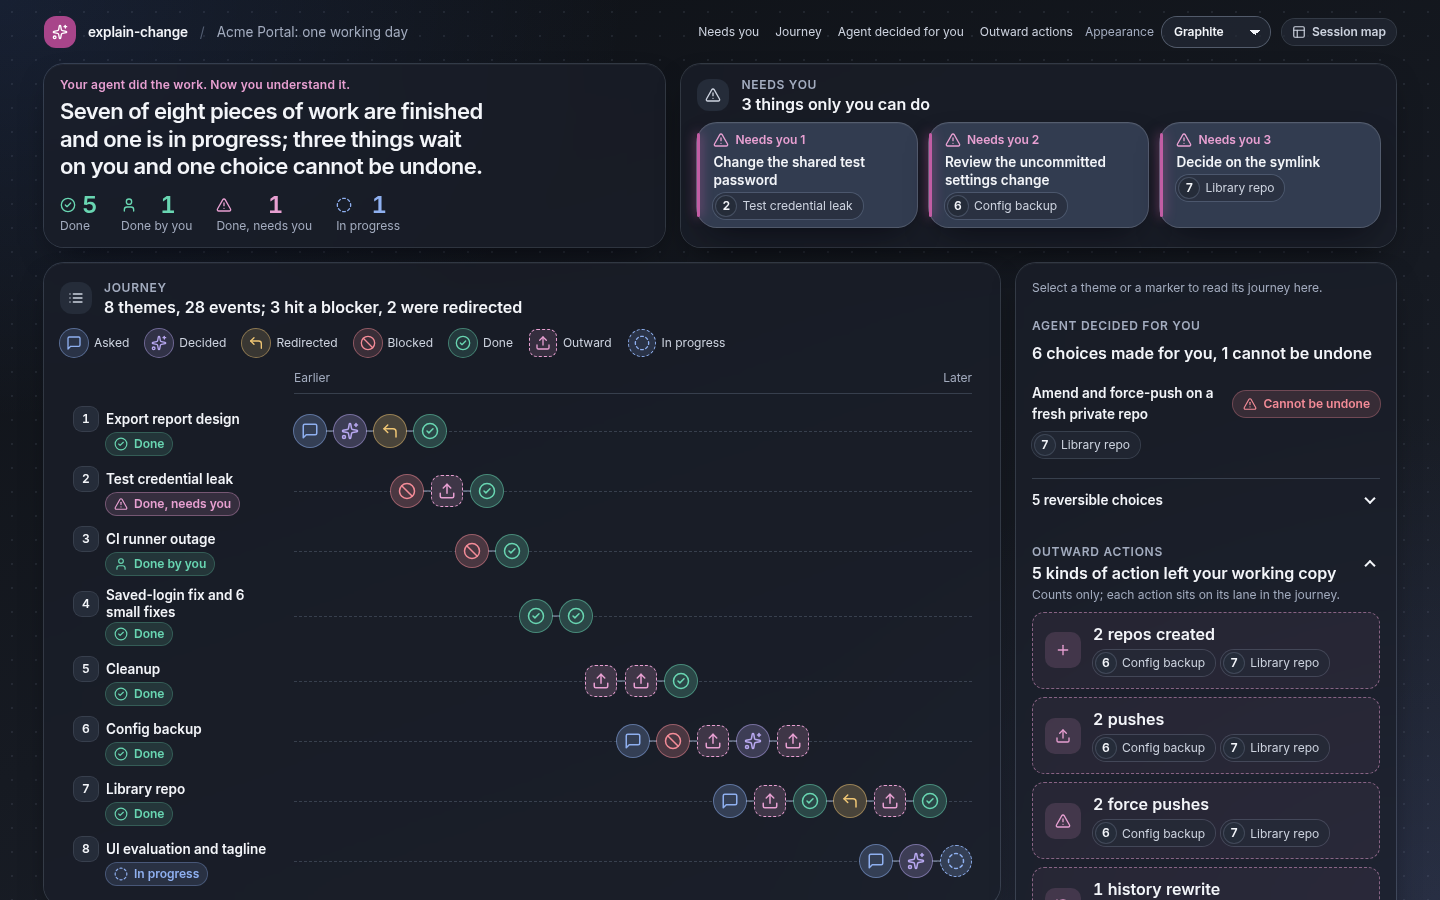
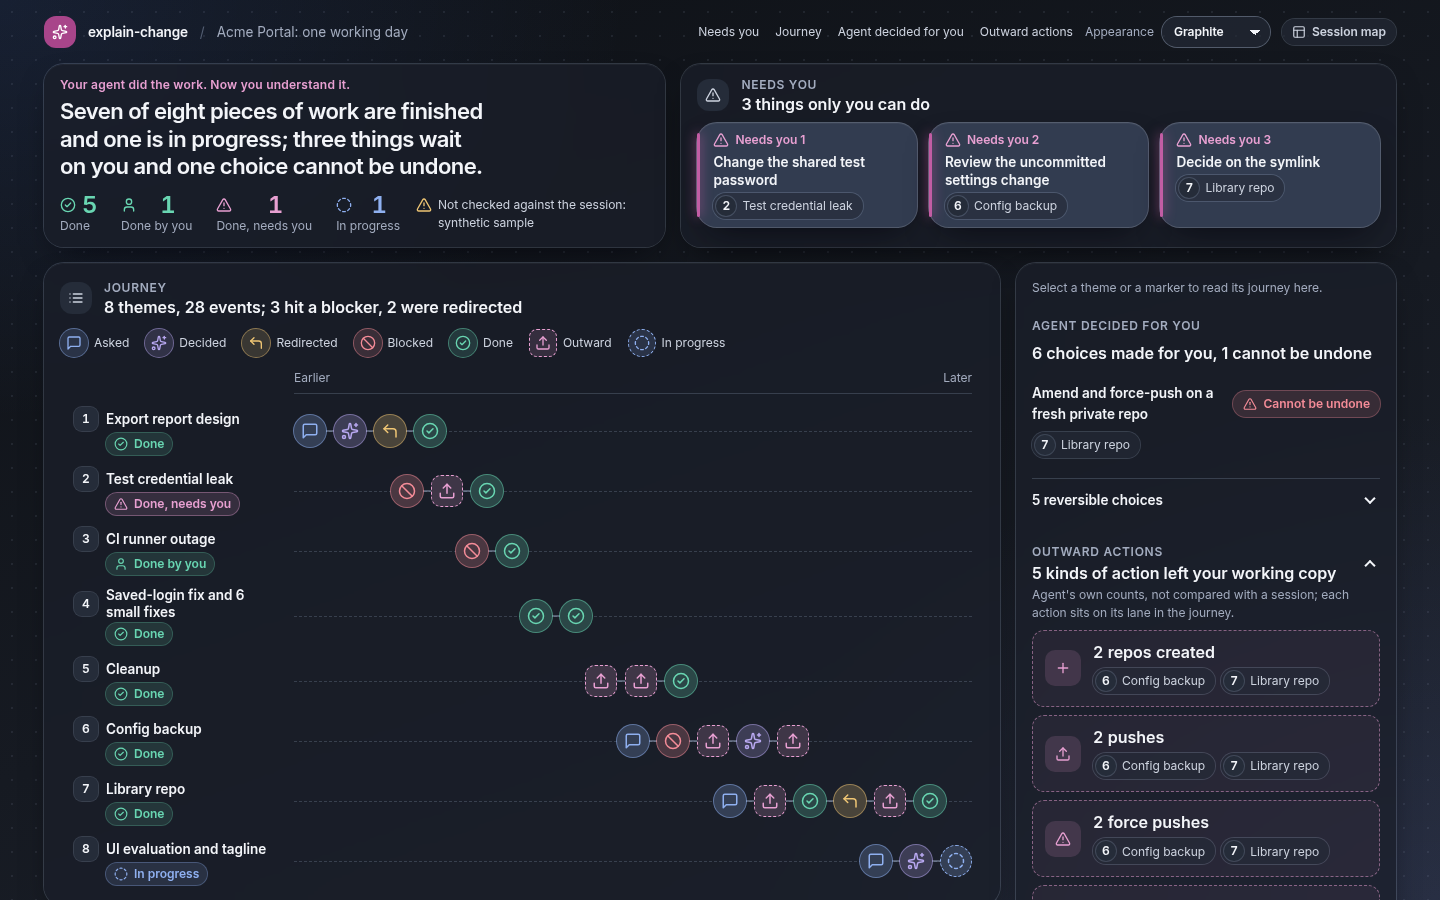
fix: the no-session note adds no height to the session page; the change-page badge stays short
Session page: the note sits beside the status key, so all 8 lanes stay on a
1440 x 900 screen. Change page: the badge keeps its short form and the reason
moves to one line in the Evidence tab, so a 200-character reason never wraps
the header. Both samples give the reason "synthetic sample". Every README and
DESIGN image is re-captured.

Changed region(s): [[0.7188, 0.6533, 0.9375, 1.0], [0.2812, 0.2178, 0.4375, 0.2489]]

diff --git a/skills/explain-change/tests/red_check.py b/skills/explain-change/tests/red_check.py
@@ -1208,17 +1208,17 @@ _NO_TRANSCRIPT = [
         ('no transcript: an unvalidated session page learns from its quotes', 'scripts/render.py',
          "        else:\n            transcript.learn_quotes(doc)\n        print('warning: not validated (--no-validate); nothing was checked against the transcript'",
          "        print('warning: not validated (--no-validate); nothing was checked against the transcript'", 'UnvalidatedRender.test_session_page'),
-        ('no transcript: the badge gives the reason', P2, "esc(t['unchecked'] + (': ' + self.reason() if self.reason() else ''))", "esc(t['unchecked'])",
+        ('no transcript: the Evidence tab gives the reason', P2, "esc(t['unchecked_why'] + self.reason())", "esc(t['unchecked_why'])",
          'ChangePageNote.test_en_note_has_the_reason'),
-        ('no transcript: the badge escapes the reason', P2, "esc(t['unchecked'] + (': '", "(t['unchecked'] + (': '", 'HostileReason.test_html_in_the_reason_is_escaped_on_both_pages'),
+        ('no transcript: the reason is escaped', P2, "esc(t['unchecked_why'] + self.reason())", "(t['unchecked_why'] + self.reason())", 'HostileReason.test_html_in_the_reason_is_escaped_on_both_pages'),
         ('no transcript: the badge cuts a long reason', P2, "        return r[:MAX_REASON - 1] + '…' if len(r) > MAX_REASON else r", '        return r',
          'HostileReason.test_a_page_rendered_without_validation_still_caps_the_reason'),
         ('no transcript: the badge hides a credential in the reason', P2, "r = redact(' '.join(r.split())) if isinstance(r, str) else ''", "r = ' '.join(r.split()) if isinstance(r, str) else ''",
          'HostileReason.test_a_credential_in_the_reason_of_an_unvalidated_page_is_hidden'),
         ("no transcript: a run the session would prove is the agent's own account", P2, '        return not self.session_checked and bool(s) and any(', '        return False and bool(s) and any(',
          'ChangePageNote.test_claims_that_need_the_session_say_they_are_the_agents_account'),
-        ('no transcript: a checked page has no note', P2, "'unchecked': ('<span class=\"chip warn unchecked\">%s%s</span>' % (ic('triangle-alert'), esc(t['unchecked'] + (': ' + self.reason() if self.reason() else '')))) if not self.session_checked else ''",
-         "'unchecked': ('<span class=\"chip warn unchecked\">%s%s</span>' % (ic('triangle-alert'), esc(t['unchecked'] + (': ' + self.reason() if self.reason() else '')))) if True else ''",
+        ('no transcript: a checked page has no note', P2, "esc(t['unchecked']))) if not self.session_checked else ''",
+         "esc(t['unchecked']))) if True else ''",
          'ChangePageNote.test_a_checked_page_has_no_note'),
         ('no transcript: the session page gives the note and the reason', PS, "        if self.session_checked:\n            return ''\n        r = self.doc.get", "        if True:\n            return ''\n        r = self.doc.get",
          'SessionPage.test_the_note_has_the_reason_in_both_languages'),
@@ -1238,6 +1238,12 @@ _NO_TRANSCRIPT = [
          'Docs.test_skill_md_has_the_no_transcript_path_for_each_harness_without_a_reader'),
 ]
 MUTATIONS += [(name, rel, old, new, 'test_no_transcript.' + test) for name, rel, old, new, test in _NO_TRANSCRIPT]
+MUTATIONS += [
+    ('no transcript: the badge stays short (header never wraps)', P2, "esc(t['unchecked']))) if not self.session_checked", "esc(t['unchecked'] + ': ' + self.reason()))) if not self.session_checked",
+     'test_page_session.NoSessionLayout.test_a_200_character_reason_never_changes_the_change_page_header'),
+    ('no transcript: the session note shares the status row', PS, "ul = '<div class=\"srow\">%s%s</div>' % (ul, note)", "ul = ul + note",
+     'test_page_session.NoSessionLayout.test_session_page_with_the_note_keeps_every_lane_on_a_1440_x_900_screen'),
+]
 
 def main():
     bad = 0

diff --git a/skills/explain-change/tests/test_page_session.py b/skills/explain-change/tests/test_page_session.py
@@ -460,6 +460,72 @@ class Dom(unittest.TestCase):
         self.assertTrue(r['cluster']['back'])
 
 
+SIZES = r"""
+<script>
+setTimeout(() => {
+  const r = s => document.querySelector(s).getBoundingClientRect();
+  const marks = [...document.querySelectorAll('.lane')].map(l => [...l.querySelectorAll('.mk')].filter(b => !b.hidden).map(b => b.getBoundingClientRect().bottom));
+  const out = {lanes: marks.length, lastBottom: marks.length ? Math.max(...marks[marks.length - 1]) : null,
+               header: document.querySelector('header.top') ? r('header.top').height : null, overflowX: document.documentElement.scrollWidth - innerWidth};
+  const pre = document.createElement('pre'); pre.id = 'probe'; pre.textContent = JSON.stringify(out); document.body.appendChild(pre);
+}, 600);
+</script>"""
+LONG = 'a long reason that explains in some detail why this harness keeps no log the skill can read, ' * 3
+
+
+def measure(tmp, html, width, height=900):
+    """Open a page headless at width x height and return the SIZES probe."""
+    f = os.path.join(tmp, 'm%d.html' % width)
+    with open(f, 'w', encoding='utf-8') as fh:
+        fh.write(html.replace('</body>', SIZES + '</body>'))
+    prof = tempfile.mkdtemp(dir=tmp)
+    p = subprocess.run([chromium(), '--headless=new', '--no-sandbox', '--disable-gpu', '--disable-dev-shm-usage', '--user-data-dir=' + prof, '--hide-scrollbars',
+                        '--window-size=%d,%d' % (width, height), '--virtual-time-budget=4000', '--dump-dom', 'file://' + f],
+                       capture_output=True, text=True, timeout=120, env={**os.environ, 'TMPDIR': '/tmp'})
+    m = re.search(r'<pre id="probe">(.*?)</pre>', p.stdout, re.S)
+    assert m, 'no probe output: ' + p.stderr[-400:]
+    import html as h
+    return json.loads(h.unescape(m.group(1)))
+
+
+@unittest.skipUnless(chromium(), 'needs a chromium, chrome or brave binary')
+class NoSessionLayout(unittest.TestCase):
+    """The note on a page with no session must not cost the first screen anything."""
+
+    @classmethod
+    def setUpClass(cls):
+        cls.tmp = tempfile.mkdtemp(prefix='ns-', dir='/tmp')
+
+    @classmethod
+    def tearDownClass(cls):
+        shutil.rmtree(cls.tmp, ignore_errors=True)
+
+    def change(self, reason, width, lang='en'):
+        d = json.load(open(CHANGE, encoding='utf-8'))
+        d['lang'] = lang
+        if reason is None:
+            d.pop('transcript_unavailable', None)
+        else:
+            d['transcript_unavailable'] = reason
+        return measure(self.tmp, page2.render(d, validated=False, session_checked=False), width)
+
+    def test_session_page_with_the_note_keeps_every_lane_on_a_1440_x_900_screen(self):
+        d = sample()
+        self.assertTrue(d['transcript_unavailable'])
+        r = measure(self.tmp, page_session.render(d, {}, session_checked=False), 1440)
+        self.assertEqual(r['lanes'], len(d['themes']))
+        self.assertLessEqual(r['lastBottom'], 900, r)
+        checked = measure(self.tmp, page_session.render(d, {}, session_checked=True), 1440)
+        self.assertLessEqual(r['lastBottom'], checked['lastBottom'] + 1, (r, checked))  # the note adds no height at all
+
+    def test_a_200_character_reason_never_changes_the_change_page_header(self):
+        for width in (1440, 800):
+            base = self.change(None, width)['header']
+            self.assertEqual(self.change('x' * 200, width)['header'], base, width)
+            self.assertEqual(self.change(LONG[:200], width)['header'], base, width)
+            self.assertEqual(self.change(LONG[:200], width, 'vi')['header'], self.change(None, width, 'vi')['header'], width)
+
+
 class Cli(unittest.TestCase):
     def setUp(self):
         self.tmp = tempfile.TemporaryDirectory(prefix='sp-cli-')

diff --git a/skills/explain-change/scripts/lib/page_session.py b/skills/explain-change/scripts/lib/page_session.py
@@ -14,8 +14,9 @@ from .i18n2 import STR2, count
 from .page2 import UI, _read, esc, font_faces, ic, jdump
 from .transcript import redact
 
-NT_CSS = ('.nt{display:flex;align-items:flex-start;gap:6px;margin:var(--s3) 0 0;color:var(--text-2);font-size:var(--fs-sm)}\n'
-          '.nt .ic{flex:none;width:16px;height:16px;color:var(--warn)}\n')  # only a page with no session behind it carries these two rules, so a checked page stays as it was
+NT_CSS = ('.srow{display:flex;flex-wrap:wrap;align-items:center;gap:var(--s2) var(--s4)}\n'
+          '.nt{display:flex;align-items:flex-start;gap:6px;flex:1 1 200px;max-width:52ch;min-width:0;margin:0;color:var(--text-2);font-size:var(--fs-sm)}\n'
+          '.nt .ic{flex:none;width:16px;height:16px;margin-top:1px;color:var(--warn)}\n')  # only a page with no session behind it carries these rules, so a checked page stays as it was
 
 KINDS = ('asked', 'decided', 'redirected', 'blocked', 'done', 'outward', 'in_progress')
 KIND_ICON = {'asked': 'message', 'decided': 'sparkles', 'redirected': 'redirect', 'blocked': 'ban', 'done': 'circle-check', 'outward': 'upload', 'in_progress': 'circle-dashed'}
@@ -123,8 +124,12 @@ class Builder:
             counts[th['status']] = counts.get(th['status'], 0) + 1
         key = ''.join('<li class="st-%s">%s<b class="cnt">%d</b><span class="lb">%s</span></li>' % (st, ic(STATUS_ICON[st]), counts[st], esc(t['ses_st_' + st]))
                       for st in STATUSES if st in counts)
-        return ('<section class="card b-sum" aria-labelledby="sum"><p class="slogan">%s</p><h1 class="sum" id="sum">%s</h1><ul class="skey" aria-label="%s">%s</ul>%s</section>'
-                % (esc(t['ses_slogan']), txt(self.doc['summary']), esc(t['ses_status_label']), key, self.not_checked()))
+        ul = '<ul class="skey" aria-label="%s">%s</ul>' % (esc(t['ses_status_label']), key)
+        note = self.not_checked()
+        if note:  # beside the status key, in the room right of it: the note adds almost nothing to the first screen
+            ul = '<div class="srow">%s%s</div>' % (ul, note)
+        return ('<section class="card b-sum" aria-labelledby="sum"><p class="slogan">%s</p><h1 class="sum" id="sum">%s</h1>%s</section>'
+                % (esc(t['ses_slogan']), txt(self.doc['summary']), ul))
 
     def not_checked(self):
         """One plain line when no session was read: the page says so and gives the doc's reason."""

diff --git a/skills/explain-change/scripts/lib/page2.py b/skills/explain-change/scripts/lib/page2.py
@@ -468,6 +468,8 @@ class Builder:
         nrep = sum(1 for r in ran if self.reported_only(r))
         nown = sum(1 for r in ran if self.own_account(r))
         out = [self.concl('evidence')]
+        if not self.session_checked and self.reason():  # the full reason lives here, so a long one never changes the header
+            out.append('<p class="hint nt-why">%s</p>' % esc(t['unchecked_why'] + self.reason()))
         if nrep:
             out.append('<p class="hint">%s</p>' % esc(count(t, 'reported_summary', nrep)))
         if nown:
@@ -576,7 +578,7 @@ class Builder:
             'hidden': ('<p class="hidden-note">%s</p>' % esc(count(t, 'hidden_note', hidden))) if hidden else '',
             'panel_label': esc(t['panel_label']), 'toggle_label': esc(t['toggle_label']), 'i_sparkles': ic('sparkles'), 'i_x': ic('x'),
             'tabs_label': esc(t['tabs_label']), 'tabs': tabs, 'nc_clear': esc(t['nc_clear']), 'filter_label': esc(t['filter_label']), 'panels': panels,
-            'unchecked': ('<span class="chip warn unchecked">%s%s</span>' % (ic('triangle-alert'), esc(t['unchecked'] + (': ' + self.reason() if self.reason() else '')))) if not self.session_checked else '',
+            'unchecked': ('<span class="chip warn unchecked">%s%s</span>' % (ic('triangle-alert'), esc(t['unchecked']))) if not self.session_checked else '',
             'data': jdump({'edges': edges, 't': js_t}), 'router': _read(os.path.join(UI, 'route.js')), 'js': _read(os.path.join(UI, 'page2.js'))}
 
 

diff --git a/skills/explain-change/scripts/lib/i18n2.py b/skills/explain-change/scripts/lib/i18n2.py
@@ -39,6 +39,7 @@ STR2 = {
         'nc_clear': 'Xem tất cả',
         'filter_label': 'Đang lọc theo ô:',
         'unchecked': 'Chưa đối chiếu với phiên làm việc',
+        'unchecked_why': 'Không có phiên làm việc để đối chiếu: ',
         'own': 'Lời kể của agent',
         'own_note': 'Chỉ dựa trên lời kể của agent, chưa đối chiếu với phiên làm việc.',
         'own_summary': '%d mục chỉ dựa trên lời kể của agent, chưa đối chiếu với phiên làm việc.',
@@ -123,6 +124,7 @@ STR2 = {
         'nc_clear': 'Show all',
         'filter_label': 'Filtered by box:',
         'unchecked': 'Not checked against the session',
+        'unchecked_why': 'No session to compare with: ',
         'own': "From the agent's own account",
         'own_note': "Rests on the agent's own account; not compared with the session.",
         'own_summary': "%d items rest only on the agent's own account; not compared with the session.", 'own_summary_1': "1 item rests only on the agent's own account; not compared with the session.",

diff --git a/skills/explain-change/tests/test_no_transcript.py b/skills/explain-change/tests/test_no_transcript.py
@@ -262,11 +262,15 @@ class ChangePageNote(V2Case):
 
     def test_vi_note_has_the_reason(self):
         t = text_of(self.render('vi'))
-        self.assertIn('Chưa đối chiếu với phiên làm việc: ' + REASON, t)
+        self.assertIn('Chưa đối chiếu với phiên làm việc', t)
+        self.assertNotIn('Chưa đối chiếu với phiên làm việc: ', t)  # the badge is the short form; the reason is its own line in the Evidence tab
+        self.assertIn('Không có phiên làm việc để đối chiếu: ' + REASON, t)
 
     def test_en_note_has_the_reason(self):
         t = text_of(self.render('en'))
-        self.assertIn('Not checked against the session: ' + REASON, t)
+        self.assertIn('Not checked against the session', t)
+        self.assertNotIn('Not checked against the session: ', t)
+        self.assertIn('No session to compare with: ' + REASON, t)
 
     def test_a_checked_page_has_no_note(self):
         html = page2.render(self.doc(), self.repo, session_checked=True)

diff --git a/skills/explain-change/DESIGN.md b/skills/explain-change/DESIGN.md
@@ -162,12 +162,13 @@ Case: Extend. Both pages and their tokens exist (`page2.css`, `session.css`); th
 
 | Decision | Rationale |
 | --- | --- |
-| The badge text is "Not checked against the session: <reason>" (vi "Chưa đối chiếu với phiên làm việc: <reason>"): the old words, then the doc's reason | a plain fact the reader can weigh; the reason says which of the three cases (harness, missing file, no session) applies |
-| The reason is one line of at most 200 characters (validated), flattened, cut with an ellipsis for an unvalidated doc, credentials redacted and escaped like any doc text | the badge sits in the header, which has room for one line; the value is the doc's, so it is data, not markup |
+| The change-page badge keeps its short form "Not checked against the session" (vi "Chưa đối chiếu với phiên làm việc"). The doc's reason is one plain line at the top of the Evidence tab, "No session to compare with: <reason>" (vi "Không có phiên làm việc để đối chiếu: <reason>") | a plain fact the reader can weigh; the reason says which of the three cases applies. A reason of up to 200 characters in the badge wrapped the header from 64 to 124 px at 1440 (PR #5 review); the header now has the same height with any reason, at 1440 and 800. The line is in the page, not a `title`, so it stays readable on touch |
+| The two bundled samples give the reason "synthetic sample" | the note stays a calm, short fact on the screens people see first |
+| The reason is one line of at most 200 characters (validated), flattened, cut with an ellipsis for an unvalidated doc, credentials redacted and escaped like any doc text | the value is the doc's, so it is data, not markup |
 | A run or a user's try that needs the session to be proven (`tool_call`, `user_reported`) carries a grey "From the agent's own account" chip (vi "Lời kể của agent") and one line in the Evidence tab counts them | the worker label ("Lời báo cáo của worker") is true only for a `report`; reusing it would mislabel the agent's own word. Same chip shape and colour (`mut`, `circle-help`) as the worker label, so there is one visual idea for "a word, not an output" |
 | A `report` source keeps its worker label on a page with no session | the worker's word is still the worker's word |
-| The session page puts the same note as one line under the status key of the summary card (warn icon, `text-2` text), and the Outward hint reads "Agent's own counts, not compared with a session; ..." (vi "Số đếm của agent, ...") in place of "Counts only; ...". Each phrase appears once | the page says it once where the numbers are, and a colour is never the only signal; the line uses existing tokens only |
+| The session page puts the same note, with its reason, beside the status key of the summary card in the room right of it (`.srow` flex row; warn icon, `text-2` text, at most 52ch, two lines at 1440), so it adds no height: all 8 lanes and their markers stay on a 1440 x 900 screen (a note under the key cost 26 px and pushed lanes 7 and 8 below the fold; on the slogan's row it did not fit either, 290 + 394 px in a 589 px card). The the Outward hint reads "Agent's own counts, not compared with a session; ..." (vi "Số đếm của agent, ...") in place of "Counts only; ...". Each phrase appears once | the page says it once where the numbers are, and a colour is never the only signal; the line uses existing tokens only |
 | The two `.nt` CSS rules are added to the page only when it has no session behind it | a page grounded in a session stays byte-identical to what it was |
 | Quotes, commands and file:line stay off both pages | "Không cần code" |
 
-Screenshots (bundled fixtures with the reason set, 1440 x 900 and 800 x 900): `docs/images/no-transcript/`.
+Screenshots (bundled fixtures with the reason set, 1440 x 900 and 800 x 900): `docs/images/no-transcript/`. Every README and DESIGN image is captured from the README's own render commands (`--no-validate`), after animations end, twice, and kept only when both captures are byte-identical. Tests: `NoSessionLayout` in `tests/test_page_session.py` (last lane's markers end at or above y = 900 and the note adds no height; header height is the same with no reason and with a 200-character one, at 1440 and 800, en and vi).

diff --git a/CHANGELOG.md b/CHANGELOG.md
@@ -7,7 +7,7 @@ All notable changes to this project are documented here. The format follows
 ## [Unreleased]
 
 ### Added
-- A change doc and a session doc work with no readable transcript (a harness without a reader, a missing or unreadable file, a run outside any agent session). The doc gives `"transcript_unavailable": "<reason>"`; `validate.py` and `render.py` refuse a doc with neither a transcript nor a reason, and a doc with both, and still check git, diff, counts, file coverage, cited code and secrets. A credential in the doc's own quotes is refused wherever the doc repeats it. The change page reads "Not checked against the session: <reason>" and marks runs as the agent's own account; the session page carries the same note and shows each outward count as the agent's own, once. `collect.py --session` with no session names this path.
+- A change doc and a session doc work with no readable transcript (a harness without a reader, a missing or unreadable file, a run outside any agent session). The doc gives `"transcript_unavailable": "<reason>"`; `validate.py` and `render.py` refuse a doc with neither a transcript nor a reason, and a doc with both, and still check git, diff, counts, file coverage, cited code and secrets. A credential in the doc's own quotes is refused wherever the doc repeats it. The change page shows a short badge "Not checked against the session", gives the reason as one line in the Evidence tab, and marks runs as the agent's own account; the session page carries "Not checked against the session: <reason>" beside its status key and shows each outward count as the agent's own, once. `collect.py --session` with no session names this path.
 - `collect.py`, `validate.py` and `render.py` take a transcript of Copilot CLI, Codex, OpenCode, Gemini CLI, Cursor CLI or Cursor IDE, for change docs and session docs. `--transcript` detects the format; `--format auto|claude|copilot|codex|opencode|gemini|cursor-cli|cursor-ide` names it, and a file in none of them and outside every harness folder exits 1 with one line naming the formats (a directory exits 2). `collect.py` lists the sessions of the repo's folder labelled by harness.
 - A shell call whose output or exit code a harness did not record has an unknown result: it cannot back a `passed` run or a `done`, and the validator says why. Text a harness injected into the user channel never matches a request quote.
 - A README and `SKILL.md` table of the supported harnesses and their transcript folders, kept equal to the readers by a test.

diff --git a/README.md b/README.md
@@ -67,7 +67,7 @@ A shell call whose output or exit code the harness did not record (every Cursor 
 
 ### When no transcript is readable
 
-Windsurf, Cline, Roo, Kiro, Goose, Amp, Aider and other Agent Skills harnesses keep no session log the skill reads. The same goes for a transcript that is missing, deleted or unreadable, and for a run outside any agent session. The skill still works, for the change page and the session page alike: the agent writes the doc from its own context and gives the reason in `"transcript_unavailable"` (one line, no secret). `validate.py` and `render.py` still check the git range, the diff, the +/- counts, the file coverage, every cited code line and every secret; they refuse a doc that has neither a transcript nor a reason, and a doc that has both. The page says so in one plain line, "Not checked against the session: <reason>", marks each run as the agent's own account, and on a session page shows the outward counts as the agent's own.
+Windsurf, Cline, Roo, Kiro, Goose, Amp, Aider and other Agent Skills harnesses keep no session log the skill reads. The same goes for a transcript that is missing, deleted or unreadable, and for a run outside any agent session. The skill still works, for the change page and the session page alike: the agent writes the doc from its own context and gives the reason in `"transcript_unavailable"` (one line, no secret). `validate.py` and `render.py` still check the git range, the diff, the +/- counts, the file coverage, every cited code line and every secret; they refuse a doc that has neither a transcript nor a reason, and a doc that has both. The page says so in a short badge "Not checked against the session" on the change page (the reason is one line in its Evidence tab) and in one line "Not checked against the session: <reason>" on the session page, marks each run as the agent's own account, and on a session page shows the outward counts as the agent's own.
 
 ## Install
 
